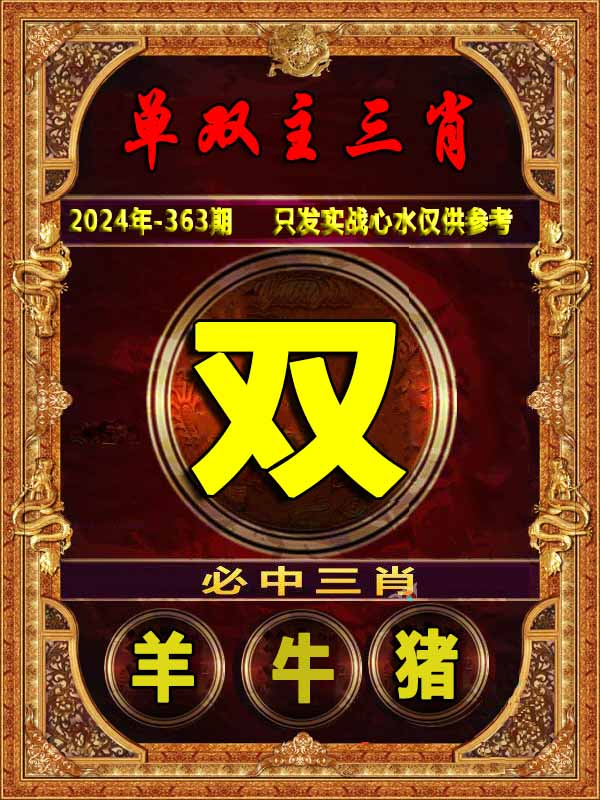
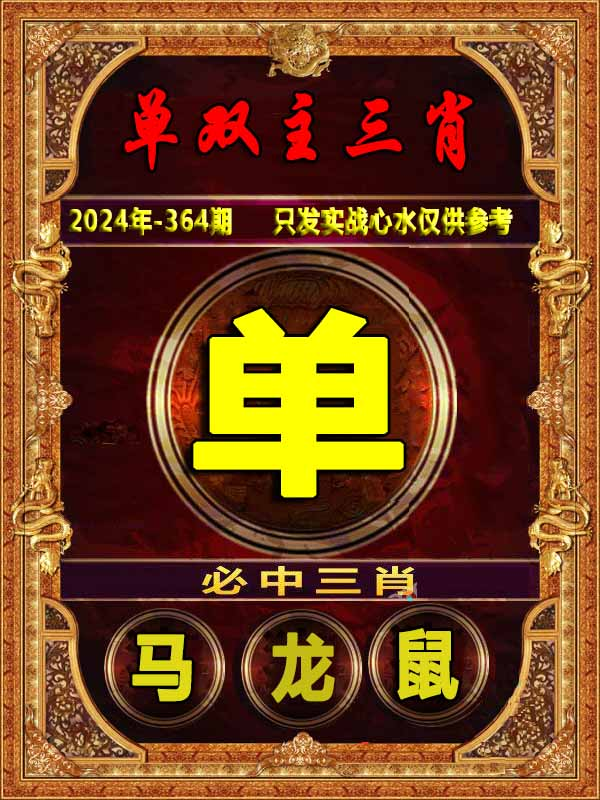
Update:  2024.12.29 13:20:40

diff --git a/Script/Src/xjw/杀两肖图.js b/Script/Src/xjw/杀两肖图.js
@@ -78,8 +78,8 @@ document.writeln("					<td height=\'40\' style=\'box-sizing: border-box;\'>");
 document.writeln("			<p align=\'center\' style=\'box-sizing: border-box; padding: 0px; margin: 0px;\'>");
 document.writeln("			<font size=\'4\' style=\'margin: 0px; padding: 0px;\'>");
 document.writeln("			364期玄机网禁两肖<font color=\'#FF0000\'>【鸡猪】</font>特开<font color=\'#0000FF\'>？00</font>准<br>");
-document.writeln("			364期澳门杀两肖图<font color=\'#FF0000\'>【？？】</font>特开<font color=\'#0000FF\'>？00</font>准<br>");
-document.writeln("			364期澳门图库禁肖<font color=\'#FF0000\'>【？？】</font>特开<font color=\'#0000FF\'>？00</font>准</font></font></p></td>");
+document.writeln("			364期澳门杀两肖图<font color=\'#FF0000\'>【兔鼠】</font>特开<font color=\'#0000FF\'>？00</font>准<br>");
+document.writeln("			364期澳门图库禁肖<font color=\'#FF0000\'>【兔猴】</font>特开<font color=\'#0000FF\'>？00</font>准</font></font></p></td>");
 document.writeln("		</tr>");
 document.writeln("<!--结束-->	");
 document.writeln("		");
